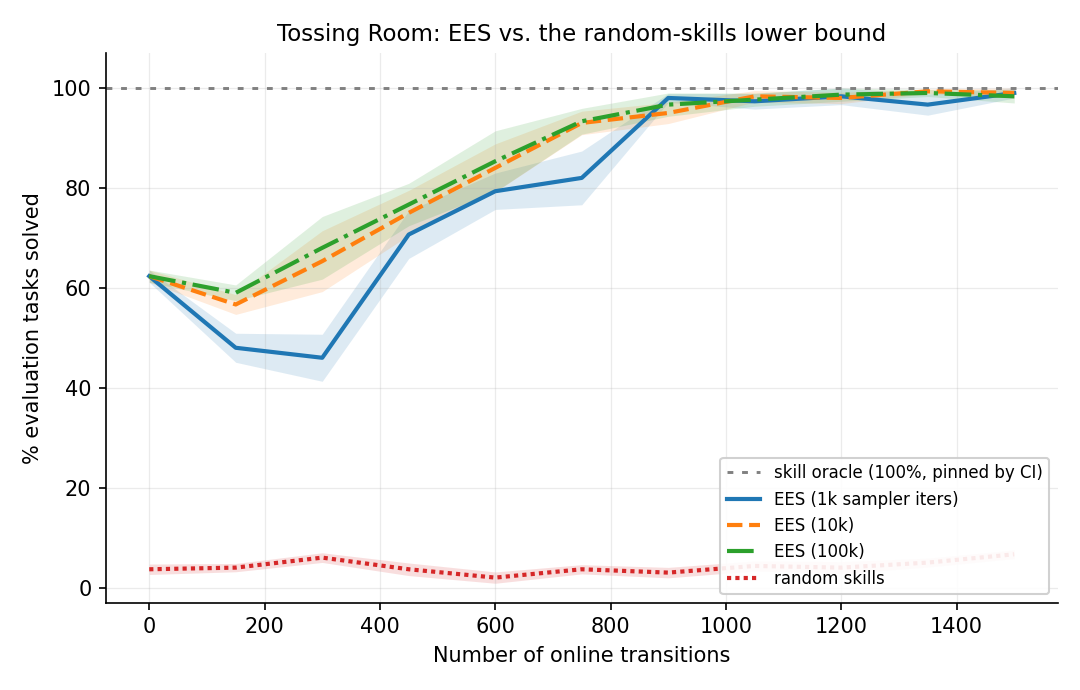
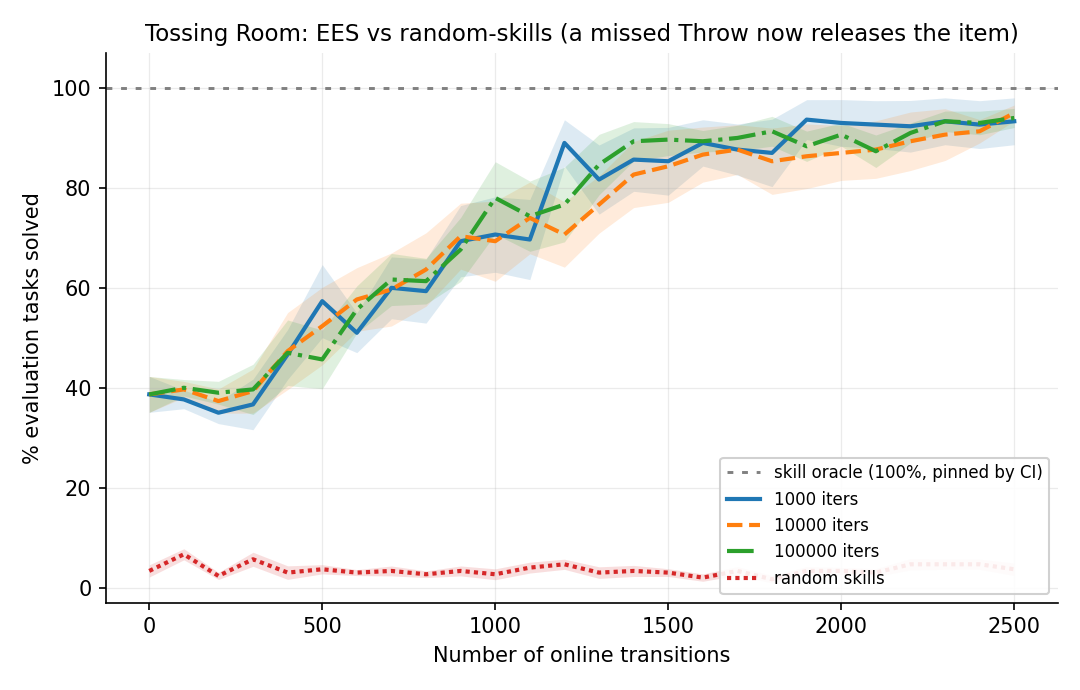
Tossing Room: a missed Throw releases the item
The horizon change treated the symptom; this removes the mechanism. _apply_throw only
mutated state on success, so a miss left the robot holding the item in the bin room --
a bit-identical state -- and the very next step re-threw for free. The evaluation
horizon merely set how many free re-rolls were granted.

Throwing now releases the item whether or not it lands. The thrown item is gone rather
than recoverable: items are singleton discriminators carrying only (kind, target_force)
with no position, so lying-near-the-bin is not representable, and adding it would only
restore the cheap retry. A retry therefore means a fresh item from the limitless pile,
costing a round trip to the start room -- affordable in a 100-step practice period,
impossible in an evaluation horizon of longest-solve + 2. Same dynamics in both modes;
the budget does the work, as it already does in Ball-Ring.

Measured over 300 episodes (10 seeds x 30 tasks), unpracticed EES: 62.7% -> 38.7%,
Throw actions 648 -> 240, throws per episode 2.16 -> 0.80. That 0.80 is exactly one
throw per throw-task and zero for the Press-only EMPTY family, i.e. the retry channel
is closed; 38.7% is what a single attempt predicts (0.2*100 + 0.8*19 = 35.2%, se 2.8pp).

The sampler-iteration grid becomes a VALID null rather than a censored one. Seeds at the
ceiling drop from 9-10/10 to 3/10, ties from near-total to 2/10, and the paired tests now
[…]

diff --git a/tests/environments/tossingroom/test_environment.py b/tests/environments/tossingroom/test_environment.py
@@ -147,7 +147,20 @@ def test_throw_within_tolerance_lands_in_the_bin_and_empties_the_hand() -> None:
     assert next_state.get(obj=_ROBOT, feature_name="holding") == 0.0
 
 
-def test_throw_outside_tolerance_is_a_no_op() -> None:
+def test_throw_outside_tolerance_consumes_the_item_without_binning_it() -> None:
+    """A missed throw releases the item: nothing lands in the bin, but the hand
+    empties. Previously a miss changed nothing at all, which made it a *free retry* --
+    the robot still held the item and still stood in the bin room, so the very next
+    step re-threw at zero cost. That turned the evaluation horizon into a silent
+    "number of attempts" dial: an unpracticed EES scored 94.7% purely by re-rolling.
+
+    The thrown item is gone rather than recoverable. Items are singleton
+    discriminators with features (kind, target_force) and no position, so "it is lying
+    on the floor near the bin" is not representable -- and making it so would
+    reintroduce the cheap retry this fixes. The only way to try again is a fresh item
+    from the limitless pile, which costs a round trip to the start room. That is what
+    makes an evaluation miss terminal while practice, with a 100-step budget, can
+    still afford to retry."""
     env = _env()
     _carry_to_recycling_room(env=env)
     # target is 0.5, tolerance 0.1 -> a force of 0.9 misses.
@@ -155,12 +168,31 @@ def test_throw_outside_tolerance_is_a_no_op() -> None:
         action=_throw(kind=TossingRoomEnvironment.RECYCLING_KIND, force=0.9)
     )
     assert next_state.get(obj=_RECYCLING_BIN, feature_name="count") == 0.0
-    assert (
-        next_state.get(obj=_ROBOT, feature_name="holding") == TossingRoomEnvironment.RECYCLING_KIND
+    assert next_state.get(obj=_ROBOT, feature_name="holding") == 0.0
+
+
+def test_a_missed_throw_can_be_retried_only_by_fetching_a_fresh_item() -> None:
+    """The complement to the above: after a miss the robot cannot re-throw in place
+    (its hand is empty) and cannot pick up where it stands (the pile is in the start
+    room), so a retry costs the walk back."""
+    env = _env()
+    _carry_to_recycling_room(env=env)
+    env.take_action(action=_throw(kind=TossingRoomEnvironment.RECYCLING_KIND, force=0.9))
+    # Picking up in the bin room does nothing: the pile is in the start room.
+    after_pickup = env.take_action(
+        action=np.array([
+            float(TossingRoomEnvironment.SKILL_PICKUP),
+            float(TossingRoomEnvironment.RECYCLING_KIND),
+            0.0,
+        ])
     )
+    assert after_pickup.get(obj=_ROBOT, feature_name="holding") == 0.0
 
 
-def test_throw_in_the_wrong_room_is_a_no_op() -> None:
+def test_throw_in_the_wrong_room_still_releases_the_item() -> None:
+    """Throwing is a release wherever you do it -- the item does not land in a bin you
+    are not standing next to, but it does leave your hand. Only an empty-handed throw
+    is a true no-op, since there is nothing to release."""
     env = _env()
     state = env.build_initial_state(trash_target_force=0.5, recycling_target_force=0.5)
     state.set(
@@ -172,6 +204,7 @@ def test_throw_in_the_wrong_room_is_a_no_op() -> None:
         action=_throw(kind=TossingRoomEnvironment.RECYCLING_KIND, force=0.5)
     )
     assert next_state.get(obj=_RECYCLING_BIN, feature_name="count") == 0.0
+    assert next_state.get(obj=_ROBOT, feature_name="holding") == 0.0
 
 
 def test_throw_with_an_empty_hand_is_a_no_op() -> None:

diff --git a/src/hitl_pmp/environments/tossingroom/environment.py b/src/hitl_pmp/environments/tossingroom/environment.py
@@ -219,13 +219,26 @@ class TossingRoomEnvironment(Environment):
         item_obj = self.item_for_kind(kind=holding)
         bin_room = self.bin_room_for_kind(kind=holding)
         target = state.get(obj=item_obj, feature_name="target_force")
-        # Throw succeeds only in the item's own bin room, and only when the dial is
-        # within tolerance of that item's target (Light Switch's LightOn logic, but
-        # within a single room -- the throw never crosses rooms).
+        # Throwing always releases the item, whether or not it lands. It lands only in
+        # the item's own bin room and only when the dial is within tolerance of that
+        # item's target (Light Switch's LightOn logic, but within a single room -- the
+        # throw never crosses rooms).
+        #
+        # The release is what makes a miss cost something. A miss used to change
+        # nothing at all, so the robot still held the item and still stood in the bin
+        # room and the very next step re-threw for free -- which quietly turned the
+        # evaluation horizon into a "number of attempts" dial (an unpracticed EES
+        # scored 94.7%, purely by re-rolling a ~0.19 chance). The thrown item is gone
+        # rather than recoverable: items are singleton discriminators carrying only
+        # (kind, target_force) with no position, so "it is lying near the bin" is not
+        # representable, and making it so would just restore a cheap retry. Trying
+        # again therefore means a fresh item from the limitless pile, which costs a
+        # round trip to the start room -- affordable inside a 100-step practice
+        # period, and not inside an evaluation horizon of longest-solve + 2.
+        next_state.set(obj=self.robot, feature_name="holding", feature_val=0.0)
         if robot_room == bin_room and abs(raw_force - target) < self.throw_tolerance:
             count = state.get(obj=bin_obj, feature_name="count")
             next_state.set(obj=bin_obj, feature_name="count", feature_val=count + 1.0)
-            next_state.set(obj=self.robot, feature_name="holding", feature_val=0.0)
 
     def _apply_press(self, *, next_state: State, robot_room: int) -> None:
         if robot_room == self.button_room:

diff --git a/docs/experiment-logs/2026-08-02-tossingroom-ees-bringup.md b/docs/experiment-logs/2026-08-02-tossingroom-ees-bringup.md
@@ -336,3 +336,78 @@ exactly the comparison being made. Every arm above is seeded 0..9 by `run_sweep`
 both probe scripts fix their own seeds the same way, so the horizon table reproduces
 bit-for-bit: it was re-derived from scratch for this writeup and came back identical to
 the run that motivated the change.
+
+---
+
+## Follow-up: a missed `Throw` now releases the item
+
+The horizon fix above treats the symptom. The **mechanism** was that a miss cost nothing:
+`_apply_throw` only mutated state on success, so after a miss the robot still held the
+item and still stood in the bin room — a bit-identical state, and the very next step
+re-threw for free. The horizon merely set how many free re-rolls the evaluation granted.
+
+Throwing now releases the item whether or not it lands:
+
+```python
++ next_state.set(obj=self.robot, feature_name="holding", feature_val=0.0)
+  if robot_room == bin_room and abs(raw_force - target) < self.throw_tolerance:
+      next_state.set(obj=bin_obj, feature_name="count", feature_val=count + 1.0)
+- next_state.set(obj=self.robot, feature_name="holding", feature_val=0.0)
+```
+
+The thrown item is **gone, not recoverable**. Items are singleton discriminators carrying
+only `(kind, target_force)` with no position, so "it is lying near the bin" is not
+representable — and making it so would reintroduce exactly the cheap retry this removes.
+The only way to try again is a fresh item from the limitless pile, costing a round trip
+to the start room: affordable inside a 100-step practice period, impossible inside an
+evaluation horizon of longest-solve + 2. Same dynamics in both modes; the **budget** does
+the work, which is how Ball-Ring already makes a failed placement terminal.
+
+### Effect on an unpracticed policy
+
+| | miss was free | miss releases |
+|---|---|---|
+| unpracticed EES | 62.7% | **38.7%** |
+| `Throw` actions / 300 episodes | 648 | **240** |
+| throws per episode | 2.16 | **0.80** |
+
+`0.80` is the confirmation: exactly one throw per throw-task, zero for the `EMPTY` family
+(20% of tasks, solved by `Press`). The retry channel is closed. 38.7% is what a single
+attempt predicts — `0.2 x 100 + 0.8 x 19 = 35.2%`, against a standard error of ~2.8pp.
+
+### The sampler-iteration grid is now a *valid* null, not a censored one
+
+10 seeds, 30 test tasks, 25 cycles x 100 steps:
+
+| arm | mean | sd | worst seed | seeds at ceiling |
+|---|---|---|---|---|
+| random skills | 3.7 | 4.0 | 0.0 | 0/10 |
+| EES, 1000 | 93.3 | **14.8** | **56.7** | 8/10 |
+| EES, 10000 | **95.0** | **5.0** | 83.3 | 3/10 |
+| EES, 100000 | 94.0 | 6.0 | 83.3 | 3/10 |
+
+Paired over the same seeds: all comparisons p ~ 0.68-0.91, with only 2/10 ties.
+
+That last column is why this null is worth more than the previous one. Under the old
+dynamics 9-10 of 10 seeds sat exactly on the ceiling, so paired seeds tied, the effective
+n collapsed to 2-3 and the exact Wilcoxon floored at p = 0.25 — the endpoint could not
+have detected an effect of any size. Now the arms have real spread and the test reports a
+genuine null: **on this domain the sampler-iteration count does not change the success
+rate.** That remains the opposite of Ball-Ring, where 10000 beat 1000 by +33 points.
+
+One signal the old metric could not show: **1000 iterations is bimodal.** Its per-seed
+finals are `[56, 76, 100 x 8]` — eight perfect runs and two poor ones — against
+`83-100` for 10000. Same mean, but **8.7x the variance** (sd 14.8 vs 5.0) and a worst seed
+27 points lower. Reporting only the mean would call these identical; they are not, and the
+more-trained sampler is the more *reliable* one even though fewer of its seeds are perfect.
+
+### What this does not change
+
+The horizon fix stands on its own: a 16-step budget for a 5-skill solve is miscalibrated
+regardless, and `longest_shortest_solve() + 2` ports Light Switch's `H_eval` convention.
+The two changes are complementary — the horizon sets an honest budget, and the release
+makes the budget mean something.
+
+Note one further behavioural consequence: throwing in the *wrong* room also releases the
+item now. That follows from "throwing is a release"; only an empty-handed throw remains a
+true no-op.
